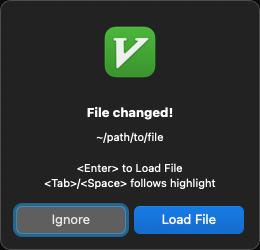
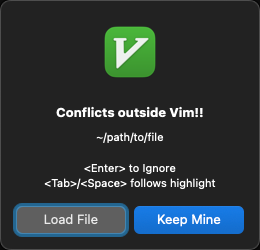
Docs: Update README per recent changes

diff --git a/README.rst b/README.rst
@@ -2,72 +2,48 @@
 File-Changed Prompt with "Load File" as Default 🗯
 ##################################################
 
-This plugin change the default file-changed prompt so that
-pressing ``<Enter>`` loads the changes.
+This plugin adjusts the default file-changed prompt.
 
-- The stock Vim prompt ignores changes by default (it does
-  not update the local buffer with the external changes).
+- You probably don't need this plugin it you're happy with |autoread|_.
 
-- And if you decide you want the buffer version back, it's
-  easy to restore your local changes — just ``:undo`` (or
-  press ``<Ctrl-Z>`` if you fly with |mswin.vim|_).
+  - If you're running Vim, ``autoread`` is not enabled by default.
 
-.. |mswin.vim| replace:: ``mswin.vim``
-.. _mswin.vim: https://vimhelp.org/gui_w32.txt.html#mswin.vim
+    - Run ``set autoread`` and be happy.
 
-(Gory) Details
-==============
+  - If you're running Neovim, you're all set.
+
+But if you want a few quality of life improvements,
+sure, maybe check out this plugin!
+
+- For ``vim-gtk`` and MacVim, it makes the prompt a
+  little less wordy.
+
+  - For MacVim specifically, it hints at how to use
+    the somewhat confusing UX (*there are two buttons
+    highlighted in blue — so what does pressing <Enter>
+    do??*)
+
+- It adds additional alerts where (Neo)Vim is otherwise
+  silent.
+
+  - For example, when |autoread|_ is enabled, if a buffer
+    is unchanged but its external file changes, Vim loads
+    the changes and prints a message.
+
+    But in Neovim, nothing is printed.
+
+    This plugin restores that message.
+
+.. |autoread| replace:: ``autoread``
+.. _autoread: https://vimhelp.org/options.txt.html#autoread
+
+Prompt Differences
+==================
 
 By default, Vim prompts you if a buffer you're working on
 was changed by an external program.
 
-But the default action (if you press ``<Enter>``) is to ignore
-changes.
-
-At least in the author's experience, I'd usually rather load
-the changes. So I made this plugin to facilitate that workflow.
-
-On Linux
---------
-
-Here's a look at the default prompt on Linux Mint MATE:
-
-.. image:: doc/MintMATE-FCS-prompt--builtin.png
-   :alt: Default Mint MATE file-changed prompt
-   :align: center
-
-You'll notice the *ignore* action is labeled simply "OK",
-which you can pick by pressing ``<Enter>`` or ``<Space>``, or
-by using the ``<Alt-O>`` accelerator.
-
-.. image:: doc/MintMATE-FCS-prompt-builtin--Accelerators.png
-   :alt: The prompt accelerators when Alt is pressed
-   :align: center
-
-- If you'd like to pick "Load File", you can ``<Tab>`` first,
-  and then press ``<Enter>`` or ``<Space>``, or you can use
-  the ``<Alt-L>`` or ``<Alt-A>`` accelerator.
-
-The prompt message is also a little wordy (IMHO).
-
-This plugin changes the prompt thusly:
-
-.. image:: doc/MintMATE-FCS-prompt--better.png
-   :alt: Improved Mint MATE file-changed prompt
-   :align: center
-
-So now to load the changes, simple press ``<Enter>`` or
-``<Space>``, or use the ``<Alt-L>`` accelerator.
-
-The prompt message is also a smidgen more concise.
-
-On macOS
---------
-
-The gameplay on macOS is slightly different, and perhaps
-not as intuitive if you're more familiar with the Linux UX.
-
-Here's what the default prompt looks like in `MacVim <https://macvim.org/>`__:
+Here's a look at the default prompt on macOS in `MacVim <https://macvim.org/>`__:
 
 .. image:: doc/MacVim-FCS-prompt--builtin.png
    :alt: Default MacVim file-changed prompt
@@ -87,7 +63,7 @@ If you're not familiar with macOS dialog wiring:
     *always* pick the "OK" button.
 
 - There are no accelerators defined (e.g., nothing like
-  the ``<Alt-L>`` you can use on Linux).
+  an ``<Alt-L>`` accelerator you might find on Linux).
 
 This plugin changes the prompt thusly:
 
@@ -95,9 +71,9 @@ This plugin changes the prompt thusly:
    :alt: Improved MacVim file-changed prompt
    :align: center
 
-The prompt text is also less wordy than the default,
-and you'll see a helpful little hint added to
-remind you how ``<Enter>`` and ``<Tab>``/``<Space>`` work on macOS.
+You'll see that the prompt text is a little less wordy than the
+default, and there's a helpful little hint added to remind you
+how ``<Enter>`` and ``<Tab>``/``<Space>`` work on macOS.
 
 - And if you've read |help-W11|_ once, you probably
   don't need to be reminded of it every time.
@@ -105,8 +81,11 @@ remind you how ``<Enter>`` and ``<Tab>``/``<Space>`` work on macOS.
 .. |help-W11| replace:: ``:help W11``
 .. _help-W11: https://vimhelp.org/message.txt.html#W11
 
-Some changes are automatically reloaded
----------------------------------------
+In the other Vims — Linux GVim, terminal ``vim``, and terminal
+``nvim`` — you'll see similar changes to the prompt.
+
+The different types of Vim file changes
+=======================================
 
 Vim identifies at least six different types of changes:
 
@@ -128,11 +107,23 @@ Vim identifies at least six different types of changes:
   - This is actually a different prompt altogether
     that is not scriptable (|help-W13|_).
 
-If Vim notices that only the timestamp has changed, you
-won't notice. It will ignore the event and move on.
+How this plugin handles each of those file changes
+--------------------------------------------------
 
-- But it will notify this plugin. And it'll print a
-  short `message
+If Vim notices that a file is deleted while a buffer is open,
+it alerts, ``E211: File "{filepath}" no longer available``,
+but it doesn't prompt.
+
+- If the file is created again, Vim doesn't announce it,
+  unless the local buffer has changes.
+
+  - So this plugin emits a message when the deleted file
+    has since been *undeleted*.
+
+If Vim notices that only the timestamp has changed, it
+won't alert you. It will ignore the event and move on.
+
+- This plugin will instead print a short `message
   <https://vimhelp.org/message.txt.html#%3Amessages>`__
   to bleep you, |because-what-the-hay|_ (but it won't
   prompt you).
@@ -141,20 +132,35 @@ won't notice. It will ignore the event and move on.
   frequently when you rebase history.
 
 If Vim notices that the permissions have changed,
-the default is to always prompt you.
+the Vim default is to always prompt you.
 
 - This plugin will *not* prompt you when permissions
   change. [Although maybe it should, or at least if
   the file is no longer writable or readable by the
-  user. But this seems like such a rare use case, we're
-  not gonna worry about that now. But please open an
-  `Issue
+  user. But that's a rare use case we're not gonna
+  worry about. But please open an `Issue
   <https://github.com/embrace-vim/vim-better-file-changed-prompt/issues>`__
   if this impacts you negatively.]
 
-For the remaining three cases — file deleted, changed,
-or conflicts — this plugin will prompt you as described
-earlier.
+If Vim notices external changes and the local buffer
+has not been modified, it'll print a message like you'd
+normally see when you edit a file, e.g.,:
+
+  ``"file" 3L, 9B``
+
+- Interestingly, in Neovim, nothing is messaged. Neovim
+  silently loads changes.
+
+- This plugin prints an alert like Vim does, but telling you
+  explicitly what happened (unlike, e.g., ``"file" 3L, 9B``),
+  and colorfully, too (imagine the following with a yellow
+  background, for example), e.g.,:
+
+  ``File changed! 📠 /path/to/file``
+
+Finally, when conflicts are detected, this plugin will prompt
+you, just like Vim or Neovim does, regardless of ``autoread``,
+albeit with the dialog changes described earlier.
 
 .. |help-modified| replace:: ``:help modified``
 .. _help-modified: https://vimhelp.org/options.txt.html#%27modified%27
@@ -181,6 +187,8 @@ Relevant Vim documentation for the *endlessly curious*:
 
 - |help-timestamp|_
 
+- |help-autoread|_
+
 - Vim Tip: *File no longer available - mark buffer modified*, by *Ewfalor*, 2008:
 
   `https://vim.fandom.com/wiki/File_no_longer_available_-_mark_buffer_modified
@@ -201,6 +209,30 @@ Relevant Vim documentation for the *endlessly curious*:
 
 .. |help-timestamp| replace:: ``:h timestamp``
 .. _help-timestamp: https://vimhelp.org/editing.txt.html#timestamp
+
+.. |help-autoread| replace:: ``:h autoread``
+.. _help-autoread: https://vimhelp.org/options.txt.html#%27autoread%27
+
+So, like, *Why?*
+================
+
+I originally made this plugin because I wanted to be prompted
+when external changes happened, even if there was no conflict,
+so that I could choose what to do. But I wanted the default
+choices to be opposite Vim's — e.g., if ``set noautoread`` and
+Vim shows the conflict prompt, the default is to Keep Changes,
+but I wanted the default to be Load File.
+
+- So when no conflicts, I wanted to be able to hit <Enter> to
+  load changes.
+
+- But when there were conflicts, I wanted to be able to hit
+  <Enter> to ignore changes.
+
+Nowadays, I prefer ``autoload`` behavior — not to be prompted
+when there are external changes but not conflicts, but to just
+load changes — but I also like the additional messages provided
+by this plugin.
 
 Related Projects
 ================
